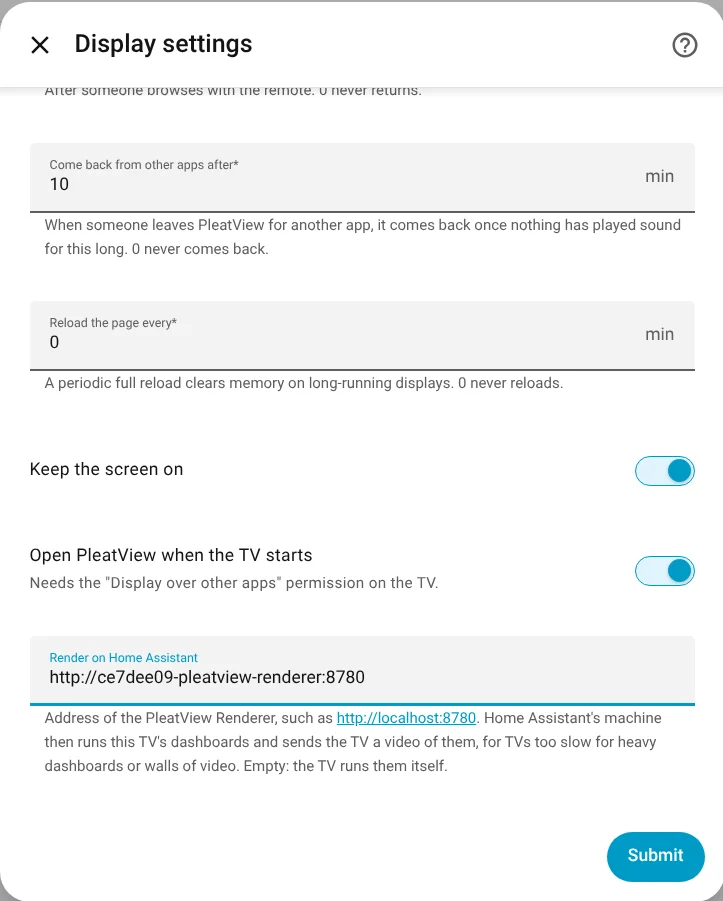
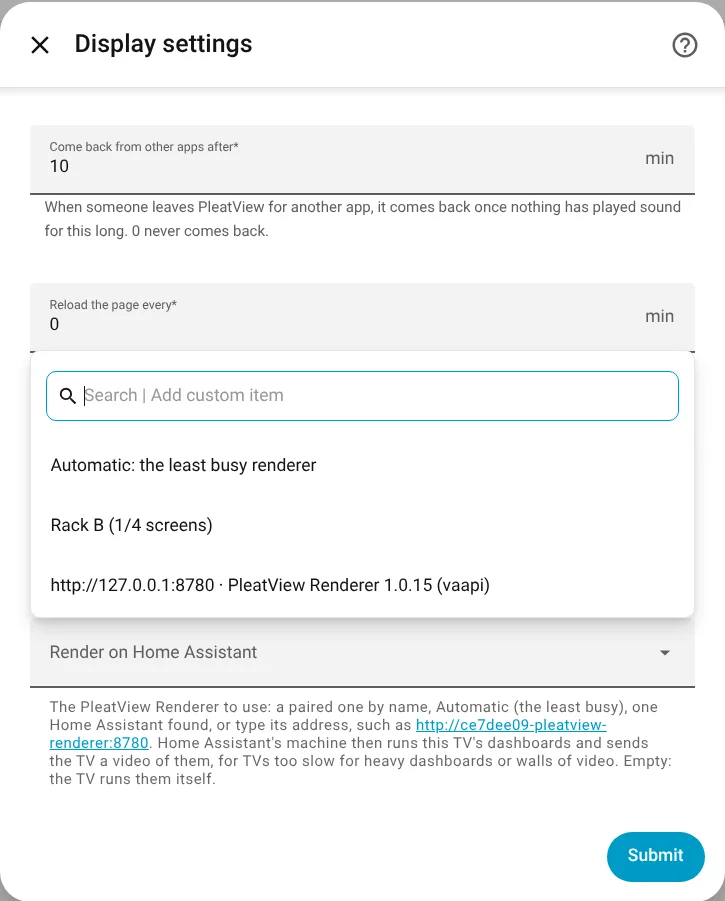
Render guide: the picture shows the list of renderers (#118)
The Render on Home Assistant field is a list since 1.0.17 (paired renderers by
name with their load, Automatic, and the ones Home Assistant found); the picture
still showed a typed address.

diff --git a/docs/render-on-home-assistant.md b/docs/render-on-home-assistant.md
@@ -109,7 +109,7 @@ choose the renderer in **Render on Home Assistant**, and *Submit*. The list show
 renderers by name, *Automatic* (the least busy of them, kept until it goes away), and the
 renderers Home Assistant found by itself; you can also type a renderer's address there.
 
-![PleatView's Display settings with the renderer's address in Render on Home Assistant](img/render-6-option.webp)
+![PleatView's Display settings with the list of renderers under Render on Home Assistant](img/render-6-option.webp)
 
 Only that TV changes; every other TV still runs its own dashboards. Empty the field to go
 back.
